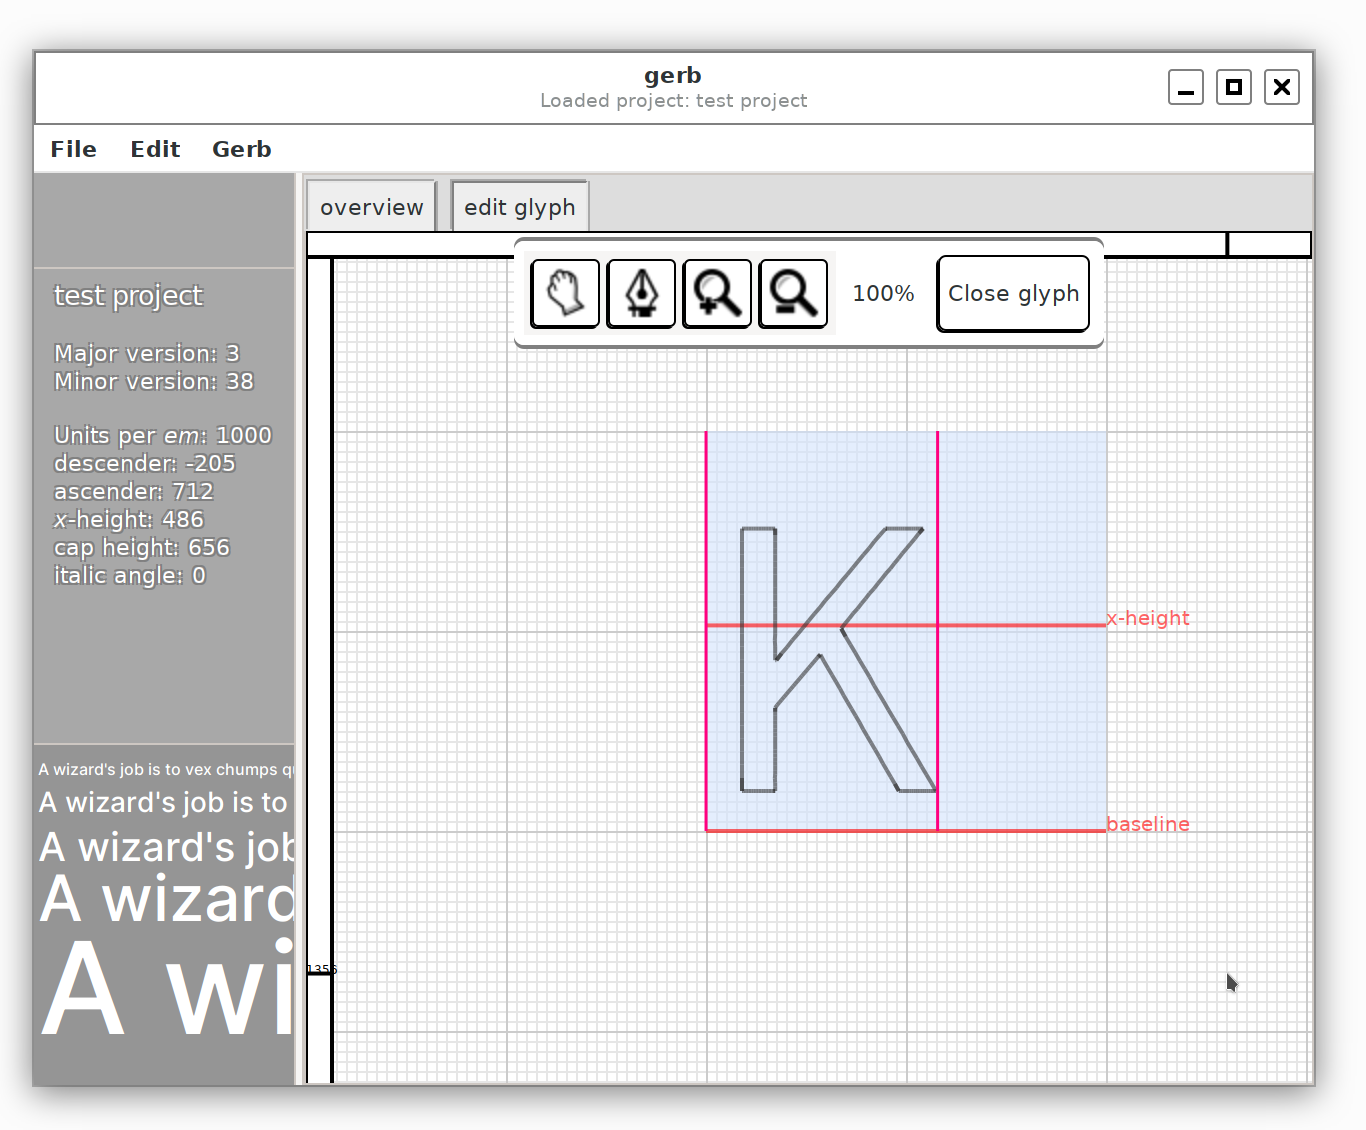
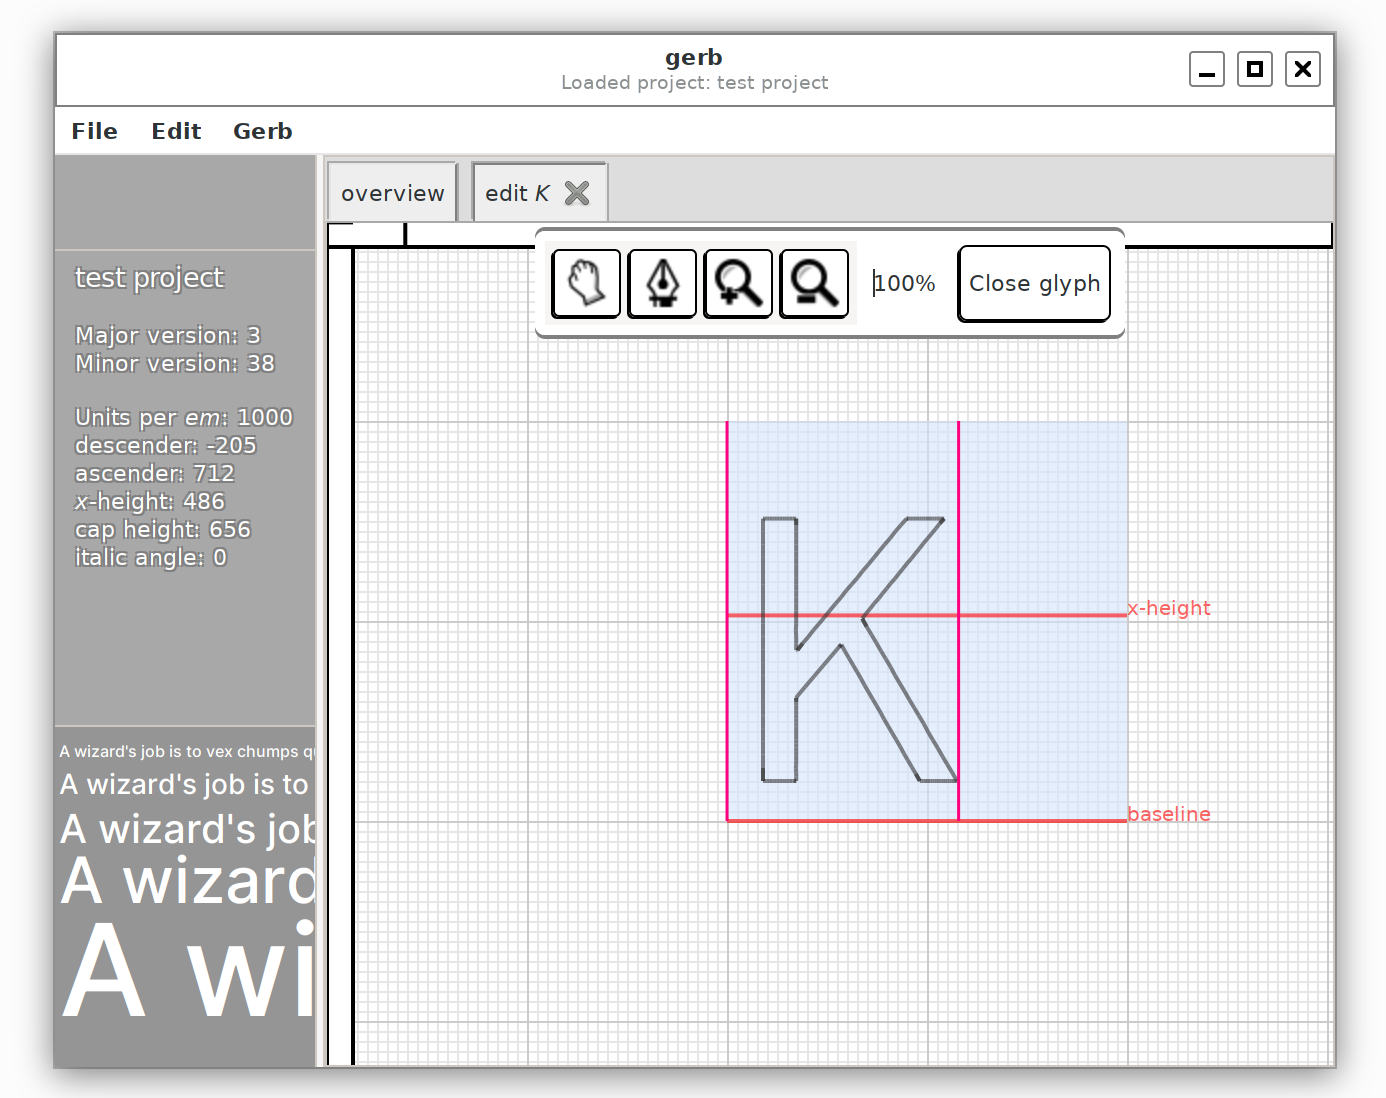
Add close buttons in tabs

diff --git a/src/custom.css b/src/custom.css
@@ -118,11 +118,19 @@ button.image-button > box {
   padding:0;
 }
 
-.image-button {
+.image-button:not(.tab-button) {
   background: white;
   border: 1px solid black;
   box-shadow: -1px 1px black;
   border-radius: 3px;
+}
+
+.tab-button {
+  background: none;
+  margin: 0;
+  padding: 0;
+  min-height: 0;
+  min-width: 0;
 }
 
 .glyph-edit-toolbox toolbar toolbutton button {

diff --git a/src/window.rs b/src/window.rs
@@ -263,6 +263,56 @@ impl ObjectImpl for Window {
     }
 }
 
+fn add_tab(notebook: &gtk::Notebook, widget: &gtk::Widget, reorderable: bool, closeable: bool) {
+    notebook.add(widget);
+    let tab_label = gtk::Label::builder()
+        .label(&widget.property::<String>("tab-title"))
+        .visible(true)
+        .use_markup(true)
+        .build();
+    if closeable {
+        let hbox = gtk::Box::builder()
+            .orientation(gtk::Orientation::Horizontal)
+            .expand(false)
+            .halign(gtk::Align::Center)
+            .valign(gtk::Align::Center)
+            .spacing(5)
+            .visible(true)
+            .can_focus(true)
+            .build();
+        hbox.pack_start(&tab_label, false, false, 0);
+        let image = gtk::Image::builder()
+            .icon_name("window-close")
+            .visible(true)
+            .build();
+        let close_button = gtk::Button::builder()
+            .image(&image)
+            .always_show_image(true)
+            .relief(gtk::ReliefStyle::None)
+            .visible(true)
+            .build();
+        close_button.connect_clicked(clone!(@strong notebook, @strong widget => move |_self| {
+            if std::dbg!(widget.property::<bool>("tab-can-close")) {
+                notebook.remove(&widget);
+                notebook.queue_draw();
+            }
+        }));
+        close_button.style_context().add_class("tab-button");
+        hbox.pack_start(&close_button, false, false, 0);
+        notebook.set_tab_label(widget, Some(&hbox));
+    } else {
+        notebook.set_tab_label(widget, Some(&tab_label));
+    }
+    notebook.set_tab_reorderable(widget, reorderable);
+    let mut children_no = 0;
+    notebook.foreach(|_| {
+        children_no += 1;
+    });
+    notebook.set_page(children_no - 1);
+    notebook.queue_draw();
+    widget.queue_draw();
+}
+
 impl Window {
     pub fn load_project(&self, project: Project) {
         let widgets = self.widgets.get().unwrap();
@@ -293,18 +343,12 @@ impl Window {
         drop(lck);
         let glyphs_view =
             crate::views::GlyphsOverview::new(self.app.get().unwrap().clone(), mutex.clone());
-        widgets.notebook.add(&glyphs_view);
-        let tab_label = gtk::Label::builder()
-            .label(&glyphs_view.property::<String>("tab-title"))
-            .use_markup(true)
-            .build();
-        widgets
-            .notebook
-            .set_tab_label(&glyphs_view, Some(&tab_label));
-        widgets.notebook.set_tab_reorderable(&glyphs_view, false);
-        //widgets.notebook.set_visible_child(&glyphs_view);
-        //widgets.tool_palette.queue_draw();
-        widgets.notebook.queue_draw();
+        add_tab(
+            &widgets.notebook,
+            glyphs_view.upcast_ref::<gtk::Widget>(),
+            false,
+            false,
+        );
     }
 
     pub fn edit_glyph(&self, glyph: &crate::glyphs::Glyph) {
@@ -315,21 +359,13 @@ impl Window {
             mutex.clone(),
             glyph.clone(),
         );
-        widgets.notebook.add(&edit_view);
-        let tab_label = gtk::Label::builder()
-            .label(&edit_view.property::<String>("tab-title"))
-            .use_markup(true)
-            .build();
-        widgets.notebook.set_tab_label(&edit_view, Some(&tab_label));
-        widgets.notebook.set_tab_reorderable(&edit_view, true);
-        let mut children_no = 0;
-        widgets.notebook.foreach(|_| {
-            children_no += 1;
-        });
-        widgets.notebook.set_page(children_no - 1);
-        //widgets.notebook.set_visible_child(&edit_view);
-        widgets.notebook.queue_draw();
-        edit_view.queue_draw();
+        add_tab(
+            &widgets.notebook,
+            edit_view.upcast_ref::<gtk::Widget>(),
+            true,
+            true,
+        );
+
         let close_button = gtk::ToolButton::new(gtk::ToolButton::NONE, Some("Close glyph"));
         close_button.set_visible(true);
         let toolbar = edit_view.imp().toolbar_box.get().unwrap();
@@ -342,17 +378,6 @@ impl Window {
             widgets.notebook.queue_draw();
             toolbar.remove(_self);
         }));
-        /*
-        widgets.project_item_group.add(&close_button);
-        let obj = self.super_.get().unwrap().clone();
-        close_button.connect_clicked(clone!(@strong obj => move |_self| {
-            let widgets = obj.imp().widgets.get().unwrap();
-            widgets.notebook.remove(&edit_view);
-            widgets.notebook.queue_draw();
-            widgets.project_item_group.remove(_self);
-        }));
-        widgets.tool_palette.queue_draw();
-        */
     }
 
     pub fn unload_project(&self) {

diff --git a/src/views/glyphs_overview.rs b/src/views/glyphs_overview.rs
@@ -19,7 +19,7 @@
  * along with gerb. If not, see <http://www.gnu.org/licenses/>.
  */
 
-use glib::{clone, ParamFlags, ParamSpec, ParamSpecString, Value};
+use glib::{clone, ParamFlags, ParamSpec, ParamSpecBoolean, ParamSpecString, Value};
 use gtk::cairo::{Context, FontSlant, FontWeight};
 use gtk::glib;
 use gtk::prelude::*;
@@ -133,18 +133,27 @@ impl ObjectImpl for GlyphsArea {
     fn properties() -> &'static [ParamSpec] {
         static PROPERTIES: once_cell::sync::Lazy<Vec<ParamSpec>> =
             once_cell::sync::Lazy::new(|| {
-                vec![ParamSpecString::new(
-                    // Name
-                    "tab-title",
-                    // Nickname
-                    "tab-title",
-                    // Short description
-                    "tab-title",
-                    // Default value
-                    Some("overview"),
-                    // The property can be read and written to
-                    ParamFlags::READABLE,
-                )]
+                vec![
+                    ParamSpecString::new(
+                        // Name
+                        "tab-title",
+                        // Nickname
+                        "tab-title",
+                        // Short description
+                        "tab-title",
+                        // Default value
+                        Some("overview"),
+                        // The property can be read and written to
+                        ParamFlags::READABLE,
+                    ),
+                    ParamSpecBoolean::new(
+                        "tab-can-close",
+                        "tab-can-close",
+                        "tab-can-close",
+                        false,
+                        ParamFlags::READABLE,
+                    ),
+                ]
             });
         PROPERTIES.as_ref()
     }
@@ -152,6 +161,7 @@ impl ObjectImpl for GlyphsArea {
     fn property(&self, _obj: &Self::Type, _id: usize, pspec: &ParamSpec) -> Value {
         match pspec.name() {
             "tab-title" => "overview".to_value(),
+            "tab-can-close" => false.to_value(),
             _ => unreachable!(),
         }
     }

diff --git a/src/views/glyph_edit.rs b/src/views/glyph_edit.rs
@@ -19,7 +19,7 @@
  * along with gerb. If not, see <http://www.gnu.org/licenses/>.
  */
 
-use glib::{clone, ParamFlags, ParamSpec, ParamSpecString, Value};
+use glib::{clone, ParamFlags, ParamSpec, ParamSpecBoolean, ParamSpecString, Value};
 use gtk::glib;
 use gtk::prelude::*;
 use gtk::subclass::prelude::*;
@@ -413,18 +413,27 @@ impl ObjectImpl for GlyphEditArea {
     fn properties() -> &'static [ParamSpec] {
         static PROPERTIES: once_cell::sync::Lazy<Vec<ParamSpec>> =
             once_cell::sync::Lazy::new(|| {
-                vec![ParamSpecString::new(
-                    // Name
-                    "tab-title",
-                    // Nickname
-                    "tab-title",
-                    // Short description
-                    "tab-title",
-                    // Default value
-                    Some("edit glyph"),
-                    // The property can be read and written to
-                    ParamFlags::READABLE,
-                )]
+                vec![
+                    ParamSpecString::new(
+                        // Name
+                        "tab-title",
+                        // Nickname
+                        "tab-title",
+                        // Short description
+                        "tab-title",
+                        // Default value
+                        Some("edit glyph"),
+                        // The property can be read and written to
+                        ParamFlags::READABLE,
+                    ),
+                    ParamSpecBoolean::new(
+                        "tab-can-close",
+                        "tab-can-close",
+                        "tab-can-close",
+                        true,
+                        ParamFlags::READABLE,
+                    ),
+                ]
             });
         PROPERTIES.as_ref()
     }
@@ -438,6 +447,7 @@ impl ObjectImpl for GlyphEditArea {
                     "edit glyph".to_value()
                 }
             }
+            "tab-can-close" => true.to_value(),
             _ => unreachable!(),
         }
     }
